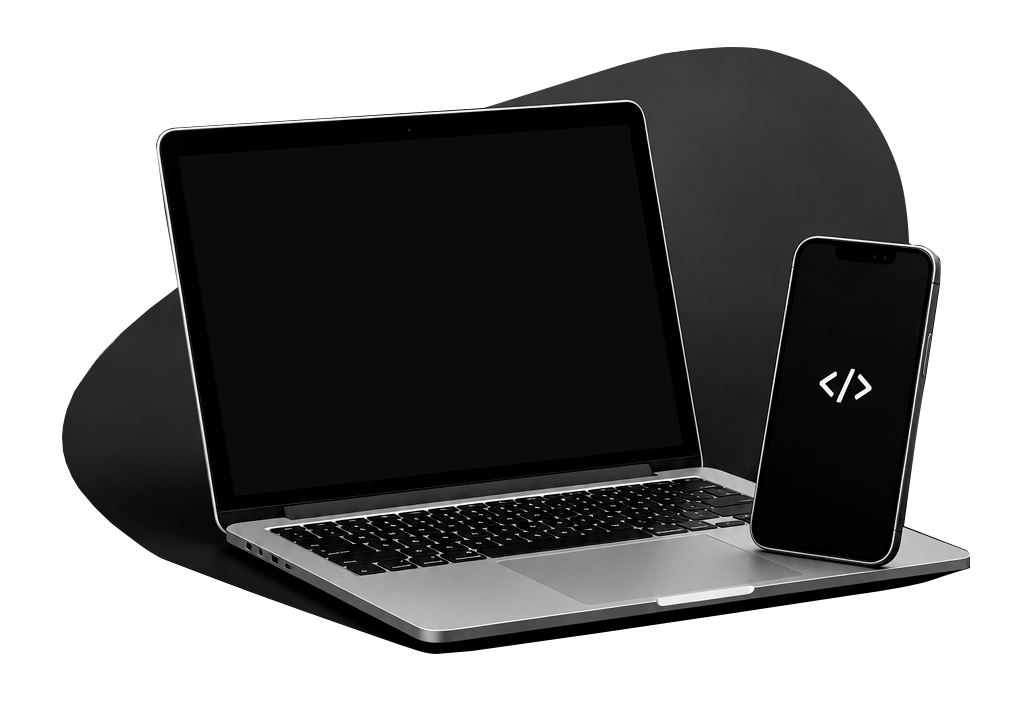
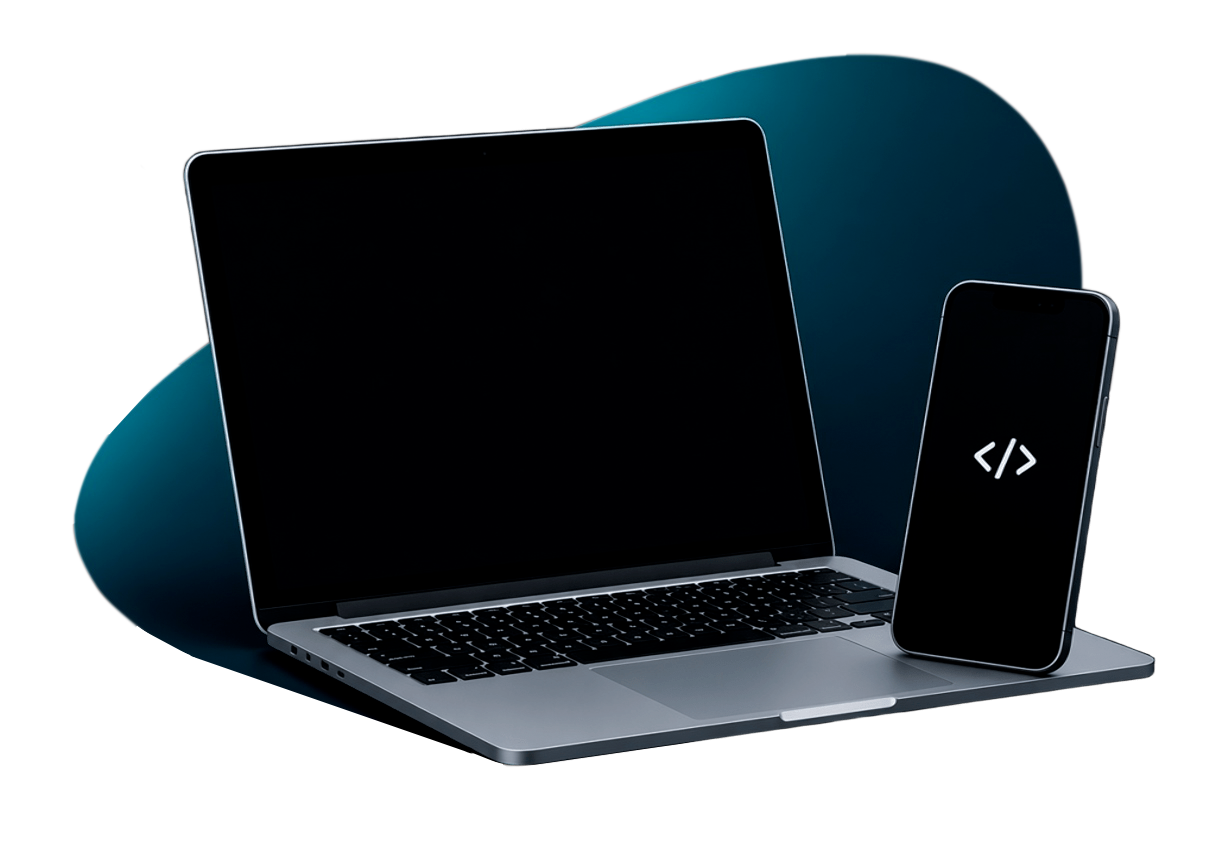
Mudei a palheta de cores para as cores reais

Changed region(s): [[0.0625, 0.0616, 0.9688, 0.9244], [0.125, 0.1849, 0.1562, 0.2465]]

diff --git a/src/components/header/header.css b/src/components/header/header.css
@@ -1,6 +1,7 @@
 header {
   color: #fff;
-  background-color: #1C1C1C;
+  background-color: #020B14;
+  border-bottom: 1px solid #00d9ff;
   min-height: 70dvh;
   display: grid;
   grid-template-columns: 1fr 95% 1fr;
@@ -29,6 +30,7 @@ header a {
 }
 
 header nav button {
+  background-color: #00d9ff;
   padding: 0.6rem 1.5rem;
   border-radius: 2rem;
   display: flex;
@@ -53,12 +55,6 @@ div.texto-header {
   justify-content: center;
   align-items: start;
   gap: 0.6rem;
-}
-
-div.texto-header span {
-  text-transform: uppercase;
-  margin-bottom: 0.5rem;
-  word-spacing: 3px;
 }
 
 div.texto-header p {
@@ -89,19 +85,19 @@ div.botoes button {
 }
 
 button.cheio {
-  background-color: #f4f4f4;
+  background-color: #00d9ff;
 }
 
 button.vazado {
   background-color: transparent;
-  color: #f4f4f4;
-  border: 1px solid #f4f4f4;
+  color: #fff;
+  border: 1px solid #00d9ff;
 }
 
 @media screen and (max-width: 980px) {
   header {
     background-image: 
-      linear-gradient(54deg, #111111e0 0%, #1c1c1ce0  100%), 
+      linear-gradient(45deg, #020b14e3 30%, #061522e3  90%), 
       url("../../../public/header-image.png")
     ;
     background-position: center;

diff --git a/src/components/servicos/servicos.css b/src/components/servicos/servicos.css
@@ -1,9 +1,9 @@
 section.servicos {
-  color: #1C1C1C;
-  background-color: #f4f4f4;
+  background: linear-gradient(45deg, #020B14 30%, #061522  90%);
   display: grid;
   grid-template-columns: 1fr 95% 1fr;
   padding: 2rem 0;
+  border-bottom: 1px solid #00D9FF;
 }
 
 section.servicos div.conteudo {
@@ -15,11 +15,8 @@ section.servicos div.conteudo {
   grid-template-columns: 2fr 3fr;
 }
 
-section.servicos span {
-  text-transform: uppercase;
-}
-
 section.servicos div.texto {
+  color: #fff;
   display: flex;
   flex-direction: column;
   justify-content: center;
@@ -42,16 +39,18 @@ section.servicos div.cards {
 
 section.servicos div.card {
   width: 100%;
-  background-color: #fff;
+  color: #fff;
+  border: 1px solid #00D9FF;
+  background-color: #0D2435;
   padding: 1.4rem 0.6rem 0.6rem 0.6rem;
   border-radius: 0.5rem;
   display: flex;
   flex-direction: column;
   gap: 0.2rem;
-  box-shadow: -2px 2px 1px #1c1c1c4f;
 }
 
 div.card i {
+  color: #00D9FF;
   margin-bottom: 1rem;
 }
 

diff --git a/src/components/header/Header.tsx b/src/components/header/Header.tsx
@@ -5,7 +5,7 @@ export default function Header() {
   return (
     <header>
       <nav>
-        <h1>TechFix</h1>
+        <h1>Tech<span className="claro">Fix</span></h1>
         <ul>
           <li><Link href={`/`}>Inicio</Link></li>
           <li><Link href={`/`}>Serviços</Link></li>
@@ -18,8 +18,8 @@ export default function Header() {
       <div className="main-header">
 
         <div className="texto-header">
-          <span>Tecnologia aplicada ao seu negócio</span>
-          <h2>Soluções tecnológicas para o seu dia a dia.</h2>
+          <span className="claro chamada">Tecnologia aplicada ao seu negócio</span>
+          <h2>Soluções tecnológicas para o <span className="claro">seu dia a dia.</span></h2>
           <p>A TechFix é uma startup de tecnologia que oferece desenvolvimento de sistemas, suporte técnico,  design, UX/UI, testes de software e muito mais. Tudo para você e/ou sua empresa evoluam.</p>
      
           <div className="botoes">

diff --git a/src/components/sobre/sobre.css b/src/components/sobre/sobre.css
@@ -1,6 +1,5 @@
 section.sobre {
-  color: #1C1C1C;
-  background-color: #e6e6e6;
+  background: linear-gradient(45deg, #061522 30%, #0D2435  90%);
   display: grid;
   grid-template-columns: 1fr 95% 1fr;
   padding: 2rem 0;
@@ -16,14 +15,11 @@ section.sobre div.conteudo {
 }
 
 section.sobre div.texto {
+  color: #fff;
   max-width: 620px;
   display: flex;
   flex-direction: column;
   gap: 0.4rem;
-}
-
-section.sobre div.texto span {
-  text-transform: uppercase;
 }
 
 section.sobre p {
@@ -34,6 +30,7 @@ section.sobre p {
 section.sobre div.imagem img {
   aspect-ratio: 16/9;
   width: 80%;
+  object-fit: cover;
   border-radius: 1rem;
 }
 
@@ -54,12 +51,13 @@ section.sobre div.card {
 section.sobre div.cards hr {
   height: 40px;
   margin: 0;
-  border: 1px solid #7e7e7e;
+  border: 1px solid #006B99;
 }
 
 section.sobre div.card span {
   width: 100%;
   text-align: left;
+  color: #fff;
 }
 
 @media screen and (max-width: 980px) {

diff --git a/src/components/sobre/Sobre.tsx b/src/components/sobre/Sobre.tsx
@@ -9,7 +9,7 @@ export default function Sobre() {
 
         <div className="imagem">
           <img 
-            src={`./section-image.png`}
+            src={`./section-image.jpg`}
             alt="Imagem de um computador e um celular"
           />
         </div>
@@ -17,7 +17,7 @@ export default function Sobre() {
         <div className="infos">
 
           <div className="texto">
-            <span>Sobre nós</span>
+            <span className="claro chamada">Sobre nós</span>
             <h2>Tecnologia, criatividade e compromisso.</h2>
             <p>Somos uma startup apaixonada por resolver problemas através da tecnologia. Acreditamos no poder da inovação, e no desenvolvimento voltado ás necessidades de cada negócio.</p>
           </div>

diff --git a/src/components/servicos/Servicos.tsx b/src/components/servicos/Servicos.tsx
@@ -8,7 +8,7 @@ export default function Servicos() {
       <div className="conteudo">
 
         <div className="texto">
-          <span>Nossos serviços</span>
+          <span className="claro chamada">Nossos serviços</span>
           <h2>O que a TechFix faz?</h2>
           <p>Nós oferecemos soluções completas relacionadas a tecnologia, deste o desenvolvimento até o suporte, sempre priorizando a qualidade e agilidade na entrega para atender melhor aos seus requisitos.</p>
         </div>

diff --git a/src/app/globals.css b/src/app/globals.css
@@ -33,8 +33,15 @@ p, a {
   font-size: clamp(0.85rem, 1.1vw ,1.05rem);
 }
 
-span {
+span.chamada {
+  text-transform: uppercase;
   font-size: clamp(0.8rem, 1vw ,1rem);
+  margin-bottom: 0.5rem;
+  word-spacing: 3px;
+}
+
+span.claro {
+  color: #00d9ff;
 }
 
 
